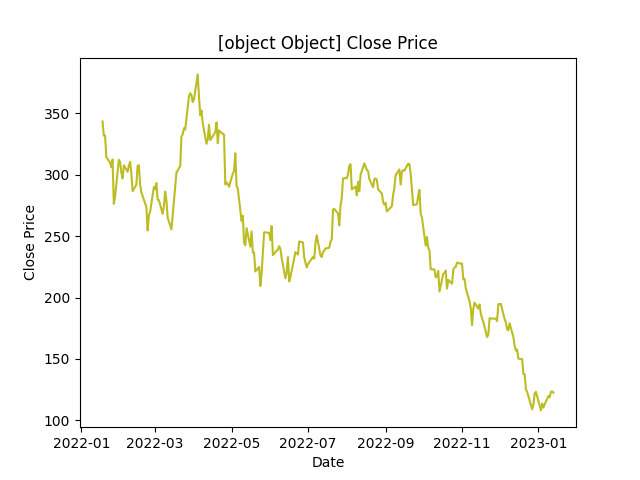
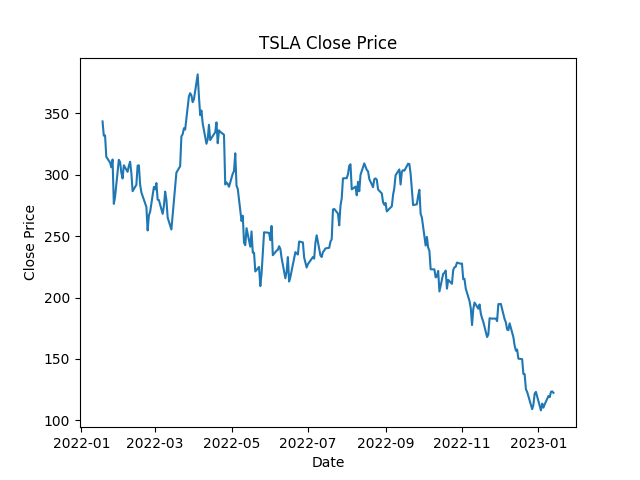
added frontend feature to load graph from backend

diff --git a/djangobackend/api/views.py b/djangobackend/api/views.py
@@ -8,11 +8,80 @@ import pandas as pd
 import matplotlib.pyplot as plt
 import json
 from django.http import JsonResponse
+import numpy as np
+from sklearn.preprocessing import MinMaxScaler
 
 # Create your views here.
 # class StudentList(ListAPIView):
     # queryset = Student.objects.all()
     # serializer_class = StudentSerializer
+def closing_graph(df, ticker):
+    plt.plot(df['Close'])
+    plt.xlabel('Date')
+    plt.ylabel('Closing Price')
+    plt.title(f'{ticker} Close Price')
+    plt.savefig(f'media/close/{ticker}.png')
+
+def moving_average(df, ticker):
+    ma_day = [10, 20, 50]
+    columns = {}
+    for ma in ma_day:
+        column_name = f"MA for {ma} days"
+        columns[column_name] = df['Adj Close'].rolling(ma).mean()
+    plt.plot(df['Adj Close'])
+    plt.plot(columns["MA for 10 days"], 'r')
+    plt.plot(columns["MA for 20 days"], 'g')
+    plt.plot(columns["MA for 50 days"], 'o')
+    plt.title("Moving average for 10, 20, 50 days")
+    plt.savefig(f'media/ma/{ticker}.png')
+
+def adjacent_close(df, ticker):
+    daily_return = df['Adj Close'].pct_change()
+    plt.plot(daily_return, linestyle='--', marker='o')
+    plt.title("Daily Return")
+    plt.savefig(f'media/adj_close/{ticker}.png')
+    # Daily Return
+    hist = daily_return.hist(bins=50)
+    plt.xlabel('Daily Return')
+    plt.ylabel('Counts')
+    plt.title("Daily Return")
+    plt.savefig(f'media/daily_return/{ticker}.png')
+
+def closing_price_history(df, ticker):
+    plt.figure(figsize=(16,6))
+    plt.title('Close Price History')
+    plt.plot(df['Close'])
+    plt.xlabel('Date', fontsize=18)
+    plt.ylabel('Close Price USD ($)', fontsize=18)
+    plt.savefig(f'media/closing_price_history/{ticker}.png')
+
+def train_model(df, ticker):
+    data = df.filter(['Close'])
+    # Convert the dataframe to a numpy array
+    dataset = data.values
+    # Get the number of rows to train the model on
+    training_data_len = int(np.ceil( len(dataset) * .95 ))
+    # Scale Data
+    scaler = MinMaxScaler(feature_range=(0,1))
+    scaled_data = scaler.fit_transform(dataset)
+    # Create the training data set 
+    # Create the scaled training data set
+    train_data = scaled_data[0:int(training_data_len), :]
+    # Split the data into x_train and y_train data sets
+    x_train = []
+    y_train = []
+
+    for i in range(60, len(train_data)):
+        x_train.append(train_data[i-60:i, 0])
+        y_train.append(train_data[i, 0])
+        
+    # Convert the x_train and y_train to numpy arrays 
+    x_train, y_train = np.array(x_train), np.array(y_train)
+
+    # Reshape the data
+    x_train = np.reshape(x_train, (x_train.shape[0], x_train.shape[1], 1))
+
+
 def display_stock(request):
     # if request.method == 'POST':
         ticker = request.GET.get('ticker')
@@ -20,18 +89,18 @@ def display_stock(request):
         start = datetime(end.year - 1, end.month, end.day)
         stock = yf.download(ticker, start, end)
         df = pd.DataFrame(stock)
-        plt.plot(df['Close'])
-        plt.xlabel('Date')
-        plt.ylabel('Close Price')
-        plt.title(f'{ticker} Close Price')
-        plt.savefig('static/images/stock.png')
-        # df.head()
-        # fig = plt.figure()
-        # ax = fig.add_subplot(111)
-        # ax.plot(df.Close)
-        # plt.show()
-        # context = {'df': df,'ticker': ticker}
+        # Closing Graph
+        closing_graph(df, ticker)
+        # Moving Average
+        moving_average(df, ticker)
+        # Adjacent Close
+        adjacent_close(df, ticker)
+        # Closing Price History
+        closing_price_history(df, ticker)
+        # Train Data Model
+        train_model(df, ticker)
         stock_json = json.loads(stock.to_json())
+        stock_json['file_name'] = f"{ticker}.png"
         return JsonResponse(stock_json, safe=False)
         # return render(request, 'stock.html', context)
     # else:

diff --git a/djangobackend/djangobackend/settings.py b/djangobackend/djangobackend/settings.py
@@ -124,8 +124,11 @@ STATIC_URL = "/static/"
 
 STATICFILES_DIRS = (
     #This lets Django's collectstatic store our bundles
-    os.path.join(BASE_DIR, 'static/images'), 
+    os.path.join(BASE_DIR, "static"), 
 )
+
+MEDIA_ROOT = os.path.join(BASE_DIR, 'media')
+MEDIA_URL = '/media/'
 
 # Default primary key field type
 # https://docs.djangoproject.com/en/4.1/ref/settings/#default-auto-field

diff --git a/djangobackend/djangobackend/urls.py b/djangobackend/djangobackend/urls.py
@@ -15,8 +15,10 @@ Including another URLconf
 """
 from django.contrib import admin
 from django.urls import path, include
+from django.conf import settings
+from django.conf.urls.static import static
 
 urlpatterns = [
     path("admin/", admin.site.urls),
     path("api/", include('api.urls'))
-]
+] + static(settings.MEDIA_URL, document_root=settings.MEDIA_ROOT)
